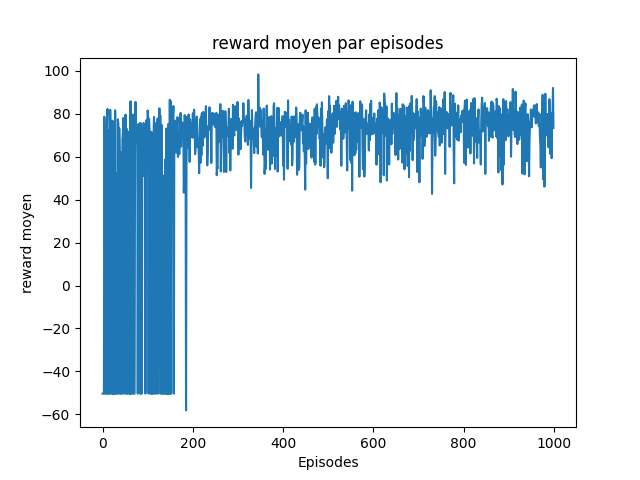
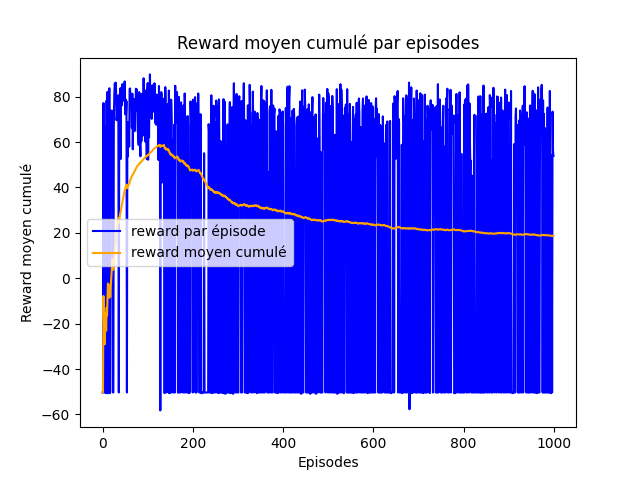
to ppti

diff --git a/src/qagentnn.py b/src/qagentnn.py
@@ -109,6 +109,7 @@ class train:
     def run(self):
         losses = []
         rewards = []
+        rewards_moyens = []
 
         for i in tqdm(range(self.nIter)):
             self.info.launchSimulation(self.espilon)
@@ -119,7 +120,7 @@ class train:
 
             #################### Simulation pour récupérer les rewards #################
             terminated = False
-            i = 0
+            n = 0
             state, stateM = self.env.reset()
             # Convertir l'état en tenseur et l'envoyer sur GPU
             state_tensor = torch.tensor(stateM, dtype=torch.float32, device=self.device).unsqueeze(0)
@@ -127,16 +128,15 @@ class train:
             actions = torch.eye(self.action_dim, device=self.device)  # Matrice identité pour one-hot
             q_values = torch.cat([self.model(state_tensor, a.unsqueeze(0)) for a in actions])
             rew_cum = 0
-            while not (terminated or i > 500):
+            while not (terminated or n > 500):
                 action = torch.argmax(q_values).item()
                 _,_,rew,terminated = self.env.step(action)
                 rew_cum += rew 
-                i += 1
-            # print("rew_cum:",rew_cum)
-            # print("i:",i)
-
-            # print("rew_cum/i: ",rew_cum/i)
+                n += 1
             rewards.append(rew_cum)
+
+            reward_moyen = sum(rewards) / len(rewards)
+            rewards_moyens.append(reward_moyen)
 
             ################ Apprentissage ##################################################
             states = [ t[0] for t in triplets]
@@ -166,7 +166,7 @@ class train:
 
 
         print("fini")
-        return losses,rewards
+        return losses,rewards_moyens,rewards
 
 class Qagent:
     def __init__(self, env,model):
@@ -215,7 +215,7 @@ def main():
     # gf.computeQvalues()
 
     traine = train(MPR_env(custom=False),1000)
-    losses,rewards = traine.run()
+    losses,rewards,r = traine.run()
 
     # traine = train(MPR_env(),10)
     # losses = traine.run()
@@ -229,10 +229,12 @@ def main():
     plt.show()
 
     plt.figure()
-    plt.plot(rewards)
+    plt.plot(r, c='#009FB7', label='reward par épisode')
+    plt.plot(rewards,c='#FE4A49', label='reward moyen cumulé')
     plt.xlabel('Episodes')
-    plt.ylabel('reward moyen')
-    plt.title('reward moyen par episodes')
+    plt.ylabel('Reward moyen cumulé')
+    plt.title('Reward moyen cumulé par episodes')
+    plt.legend()
     plt.savefig('../Graphiques/reward_final')
     plt.show()
     agent = Qagent(MPR_env(custom=False), traine.model)
